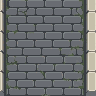
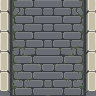
Rome: bridge tiles made symmetric

Changed region(s): [[0.0, 0.0, 0.5, 1.0]]

diff --git a/tools/mirrorhalf.py b/tools/mirrorhalf.py
@@ -1,0 +1,24 @@
+#!/usr/bin/env python3
+"""Make a tile symmetric by mirroring one half over the other.
+
+    python3 tools/mirrorhalf.py in.png out.png bottom|top|left|right
+
+The named half is kept and its mirror replaces the opposite half, so the
+result is exactly symmetric about the tile's centre line. Used on the Rome
+bridge tiles (2026-09-07) whose generated kerbs were thicker on one side."""
+import sys
+from PIL import Image
+src, dst, keep = sys.argv[1], sys.argv[2], sys.argv[3]
+im = Image.open(src)
+w, h = im.size
+if keep in ("bottom", "top"):
+    half = im.crop((0, h // 2, w, h)) if keep == "bottom" else im.crop((0, 0, w, h // 2))
+    mirror = half.transpose(Image.FLIP_TOP_BOTTOM)
+    im.paste(half, (0, h // 2) if keep == "bottom" else (0, 0))
+    im.paste(mirror, (0, 0) if keep == "bottom" else (0, h // 2))
+else:
+    half = im.crop((w // 2, 0, w, h)) if keep == "right" else im.crop((0, 0, w // 2, h))
+    mirror = half.transpose(Image.FLIP_LEFT_RIGHT)
+    im.paste(half, (w // 2, 0) if keep == "right" else (0, 0))
+    im.paste(mirror, (0, 0) if keep == "right" else (w // 2, 0))
+im.save(dst)
